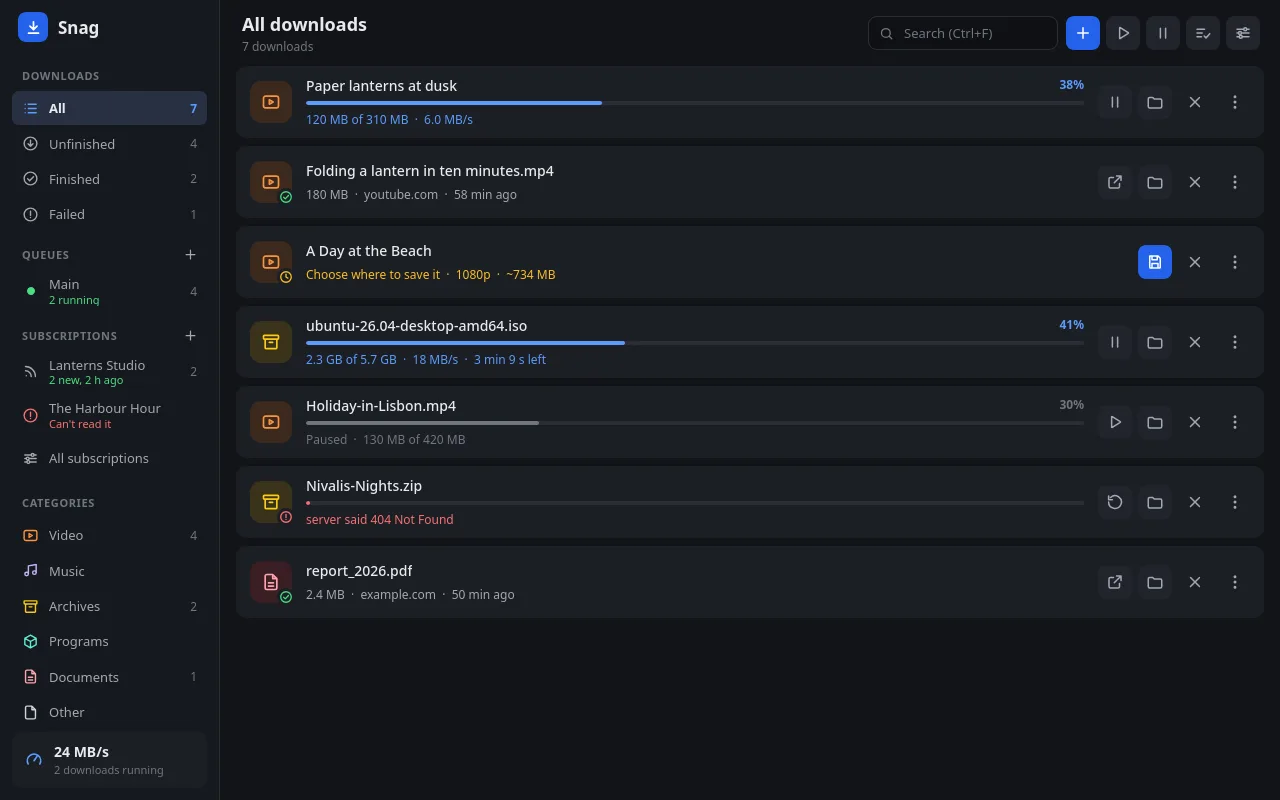
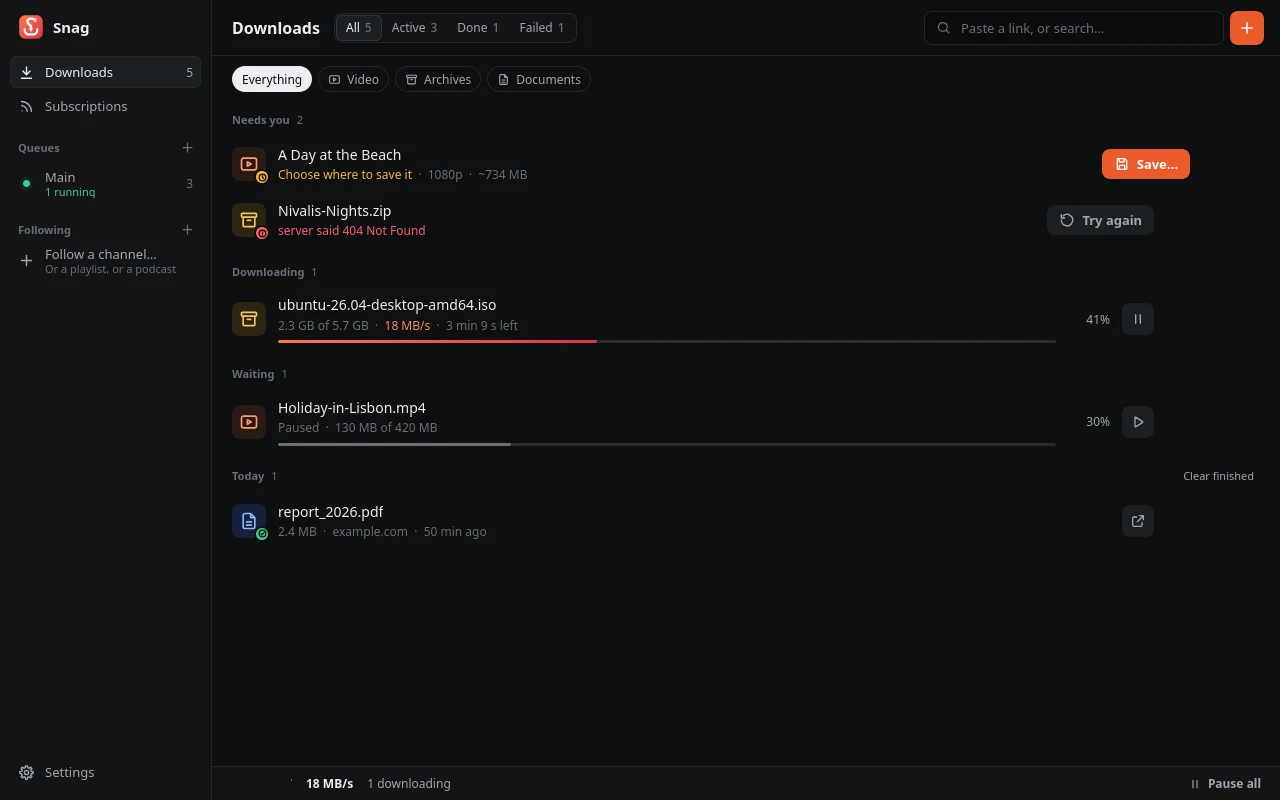
Match the new app: its colours, and screenshots of the new window and playlist picker

diff --git a/public/index.html b/public/index.html
@@ -46,7 +46,7 @@
           src="/img/app.webp"
           width="1280"
           height="800"
-          alt="Snag's window: downloads with their progress, queues, subscriptions and categories"
+          alt="Snag's window: downloads grouped by what each needs, with their progress, queues and subscriptions"
         />
       </section>
 
@@ -69,7 +69,7 @@
           <h2>Your browser's downloads, handed over</h2>
           <p>
             Archives, programs, videos and documents go to Snag automatically. If Snag can't take
-            one, the browser gets it back.
+            one, the browser gets it back. Hold Delete while you click to keep one in the browser.
           </p>
         </article>
         <article>
@@ -106,10 +106,10 @@
         </div>
         <img
           src="/img/playlist.webp"
-          width="980"
-          height="1000"
+          width="922"
+          height="838"
           loading="lazy"
-          alt="The Download playlist window: episodes ticked, quality, folder and file names"
+          alt="Picking from a season: episodes ticked, with the quality, folder, file names and queue beside them"
         />
       </section>
 

diff --git a/public/style.css b/public/style.css
@@ -1,15 +1,16 @@
 :root {
-  --background: #121418;
-  --surface: #1b1e24;
-  --raised: #20242b;
-  --raised-hover: #2a2f37;
-  --border: #2a2e36;
-  --text: #e8eaed;
-  --text-dim: #a3a9b1;
-  --text-faint: #6f7680;
-  --accent: #5b9bff;
-  --accent-strong: #2563eb;
-  --accent-hover: #3473f0;
+  /* The app's colours (snag's frontend/src/lib/styles/tokens.css). */
+  --background: #0e0f11;
+  --surface: #16181b;
+  --raised: #1c1f23;
+  --raised-hover: #24272c;
+  --border: #24272c;
+  --text: #eceef1;
+  --text-dim: #a0a6ae;
+  --text-faint: #686e77;
+  --accent: #ff8a62;
+  --accent-strong: #ec5a2c;
+  --accent-hover: #f66a3c;
   --radius: 10px;
   color-scheme: dark;
 }
